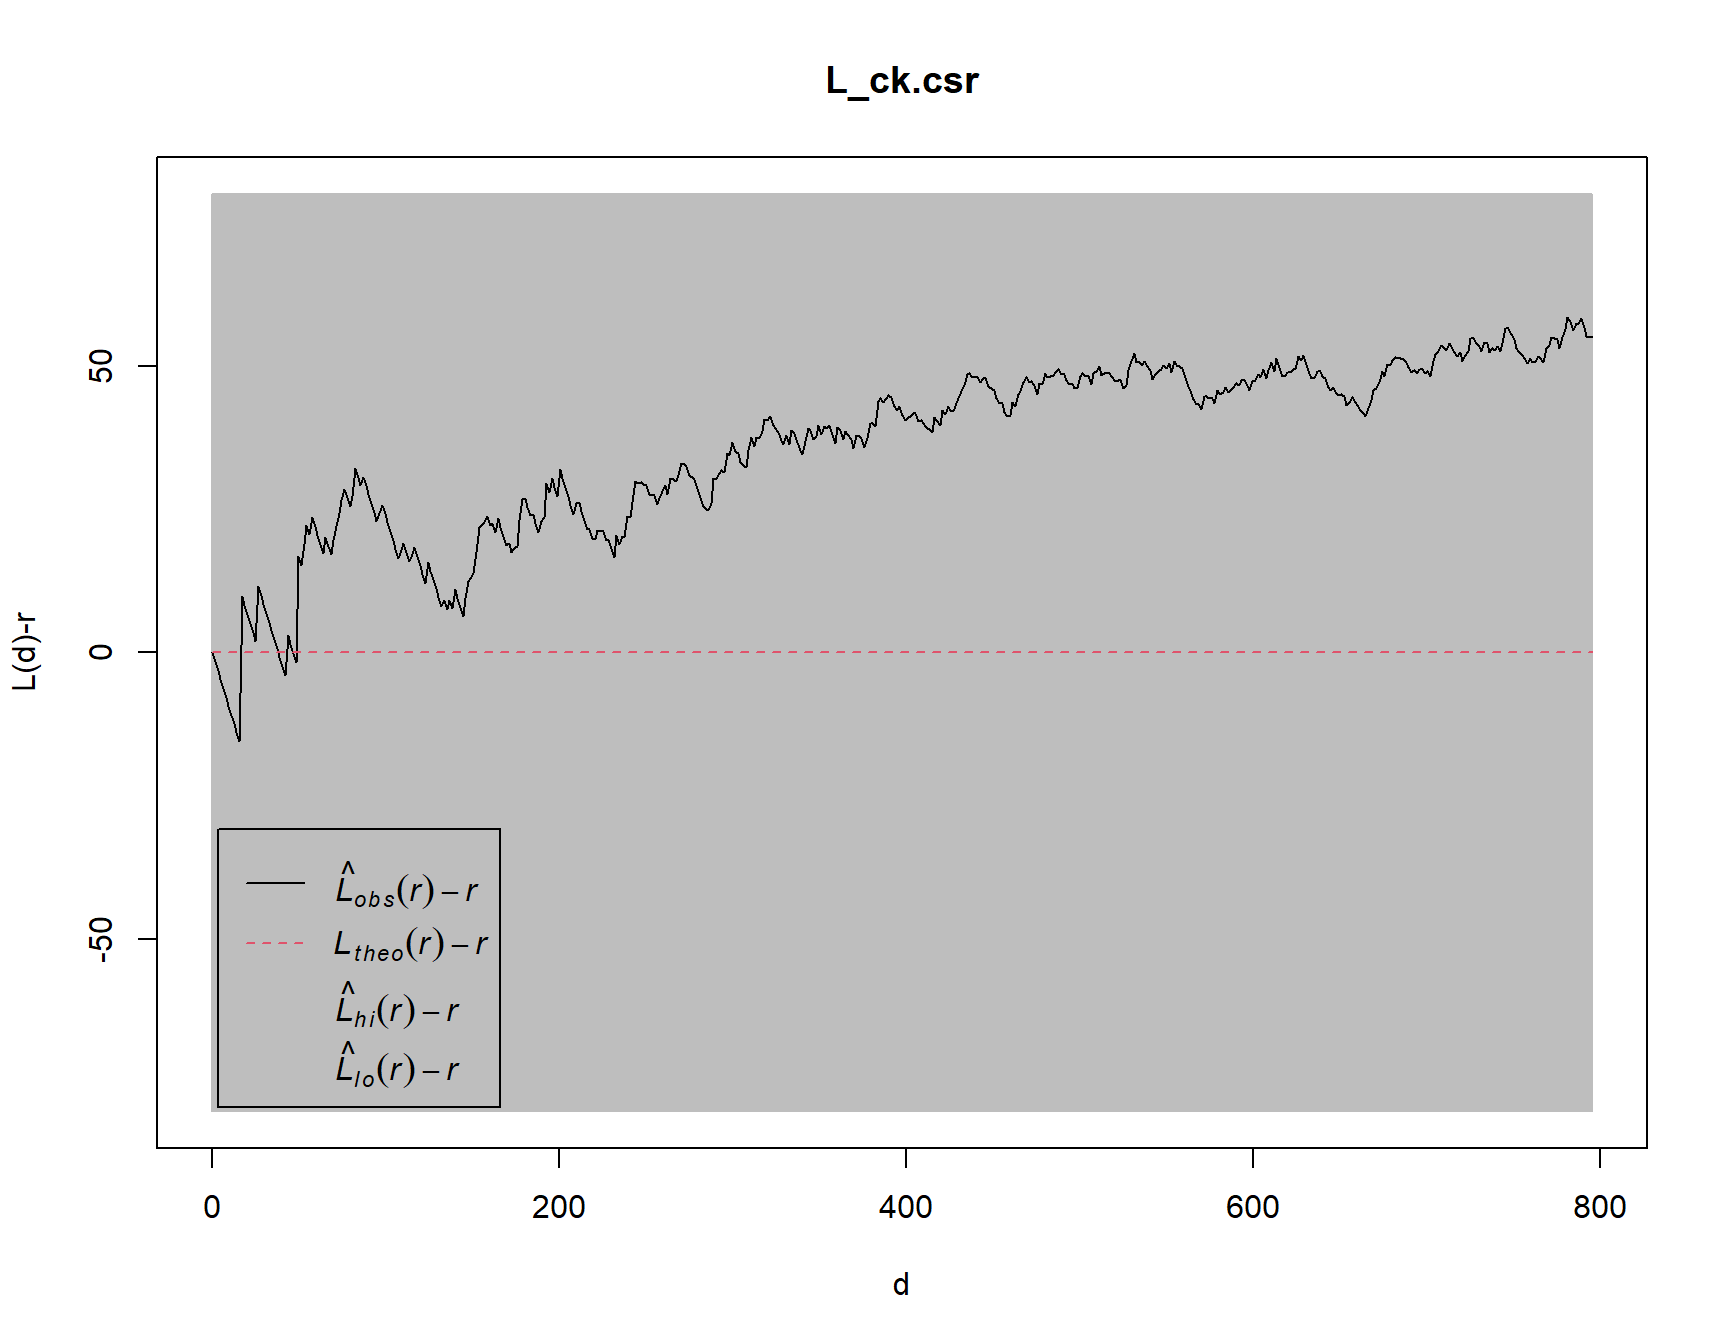
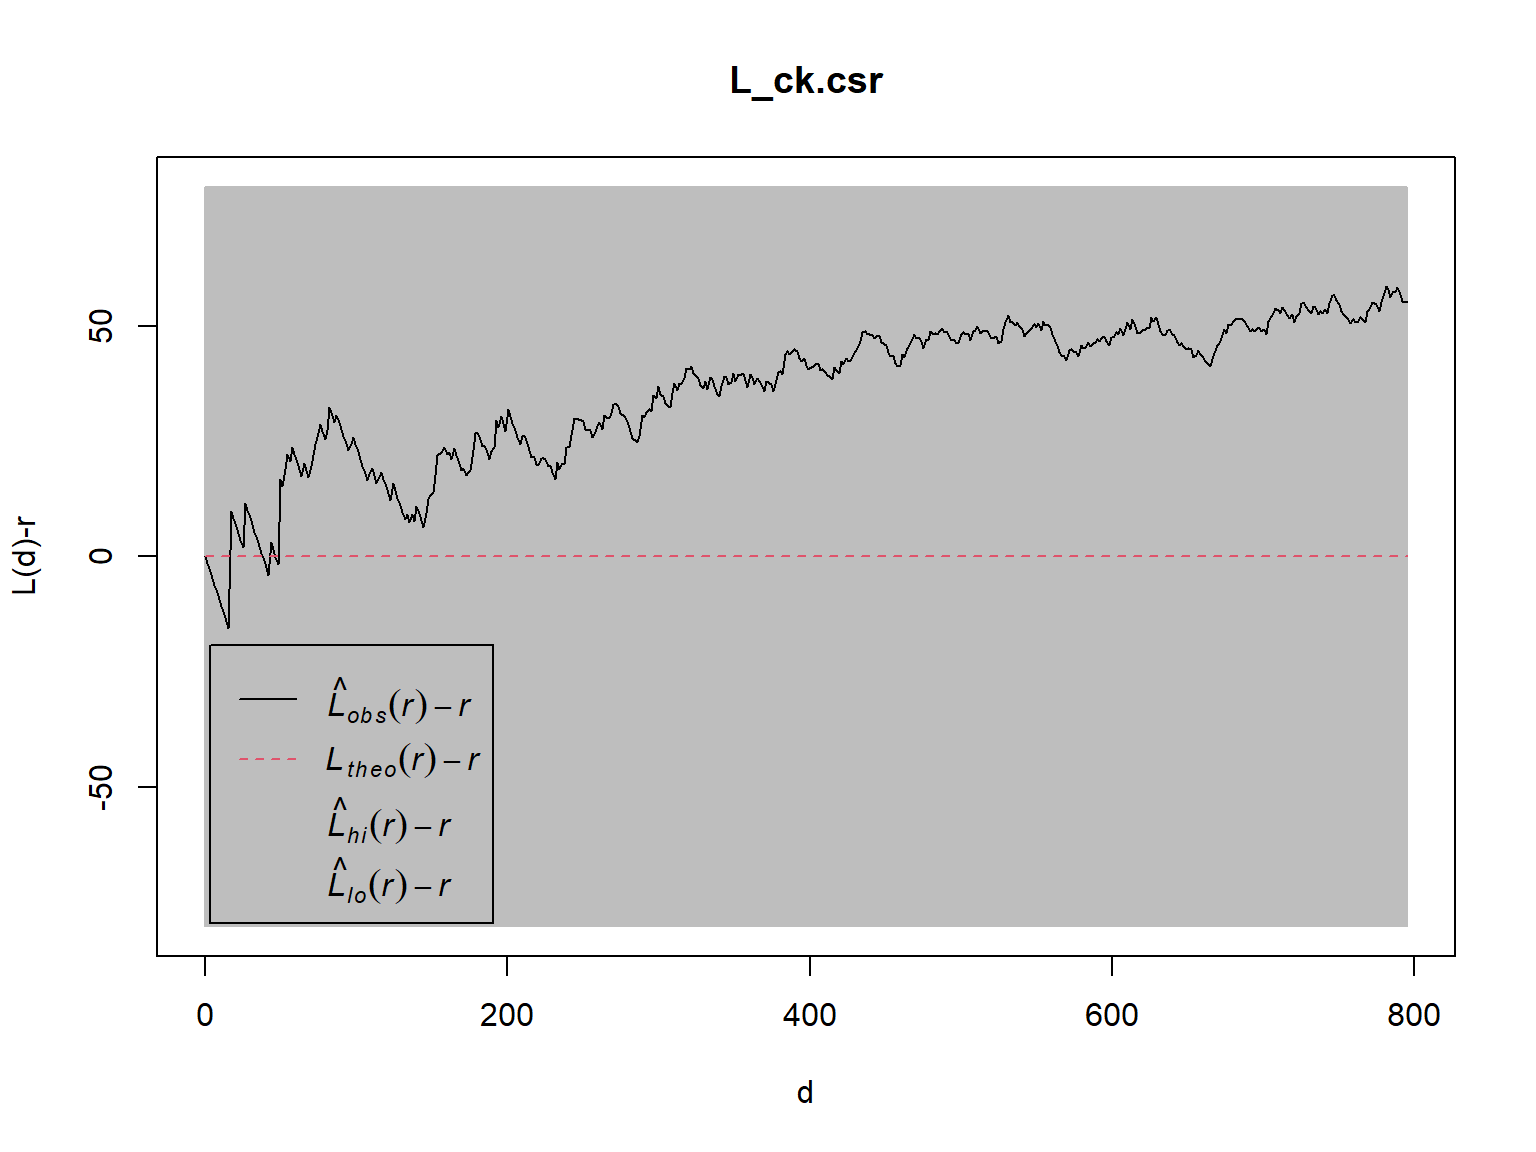
Commit after correcting the parameter names in envelope() calls for Hands-on_Ex2B

diff --git a/_site/Hands-on_Ex/Hands-on_Ex02B/Hands-on_Ex02B.html b/_site/Hands-on_Ex/Hands-on_Ex02B/Hands-on_Ex02B.html
@@ -281,7 +281,7 @@ pre > code.sourceCode > span > a:first-child::before { text-decoration: underlin
     <div>
     <div class="quarto-title-meta-heading">Modified</div>
     <div class="quarto-title-meta-contents">
-      <p class="date-modified">September 5, 2026</p>
+      <p class="date-modified">September 6, 2026</p>
     </div>
   </div>
     
@@ -653,8 +653,8 @@ Done.</code></pre>
 <h4 class="anchored" data-anchor-id="performing-complete-spatial-randomness-test-2">7.1.2 Performing Complete Spatial Randomness Test</h4>
 <p>To confirm the observed spatial pattern above, a hypothesis test is conducted:</p>
 <ul>
-<li>H0: The distribution of childcare services at Choa Chu Kang are randomly distributed.</li>
-<li>H1: The distribution of childcare services at Choa Chu Kang are not randomly distributed.</li>
+<li>H0: The distribution of childcare services at Choa Chu Kang is randomly distributed.</li>
+<li>H1: The distribution of childcare services at Choa Chu Kang is not randomly distributed.</li>
 </ul>
 <p>The null hypothesis will be rejected if p-value is smaller than alpha value of 0.001.</p>
 <p>Monte Carlo test with F-function:</p>
@@ -702,7 +702,7 @@ Done.</code></pre>
 </div>
 </div>
 <div class="callout-body-container callout-body">
-<p>The observed F-function (black line) stays within the simulation envelope (grey band) across the entire observed distance range, never crossing either the upper or lower bound. This indicates that the spatial pattern of childcare centres in Choa Chu Kang is not distinguishable from CSR at these distances — unlike the G-function result, which did show the observed line exceeding the envelope at larger distances.</p>
+<p>The observed F-function (black line) stays within the envelope (grey band) across the entire observed distance range, never crossing either the upper or lower bound. This indicates that the spatial pattern of childcare centres in Choa Chu Kang is not distinguishable from CSR at these distances, consistent with the G-function result.</p>
 </div>
 </div>
 </section>
@@ -741,8 +741,8 @@ Done.</code></pre>
 <h4 class="anchored" data-anchor-id="performing-complete-spatial-randomness-test-3">7.2.2 Performing Complete Spatial Randomness Test</h4>
 <p>To confirm the observed spatial pattern above, a hypothesis test is conducted:</p>
 <ul>
-<li>H0: The distribution of childcare services at Tampines are randomly distributed.</li>
-<li>H1: The distribution of childcare services at Tampines are not randomly distributed.</li>
+<li>H0: The distribution of childcare services at Tampines is randomly distributed.</li>
+<li>H1: The distribution of childcare services at Tampines is not randomly distributed.</li>
 </ul>
 <p>The null hypothesis will be rejected if p-value is smaller than alpha value of 0.001.</p>
 <p>Monte Carlo test with F-function:</p>
@@ -826,7 +826,7 @@ Done.</code></pre>
 </div>
 </div>
 <div class="callout-body-container callout-body">
-<p>The observed K-function (black line) sits consistently above the theoretical CSR line (red dashed) across the entire observed distance range, with the gap widening as distance increases. Since a higher-than-expected K-function indicates clustering, this confirms that childcare centres in Choa Chu Kang are more clustered than CSR would predict, which is consistent with the earlier G-function result.</p>
+<p>The observed K-function (black line) sits consistently above the theoretical CSR line (red dashed) across the entire observed distance range, with the gap widening as distance increases. Since a higher-than-expected K-function indicates clustering, this confirms that childcare centres in Choa Chu Kang are more clustered than CSR would predict.</p>
 </div>
 </div>
 </section>
@@ -834,8 +834,8 @@ Done.</code></pre>
 <h4 class="anchored" data-anchor-id="performing-complete-spatial-randomness-test-4">8.1.2 Performing Complete Spatial Randomness Test</h4>
 <p>To confirm the observed spatial pattern above, a hypothesis test is conducted:</p>
 <ul>
-<li>H0: The distribution of childcare services at Choa Chu Kang are randomly distributed.</li>
-<li>H1: The distribution of childcare services at Choa Chu Kang are not randomly distributed.</li>
+<li>H0: The distribution of childcare services at Choa Chu Kang is randomly distributed.</li>
+<li>H1: The distribution of childcare services at Choa Chu Kang is not randomly distributed.</li>
 </ul>
 <p>The null hypothesis will be rejected if the p-value is smaller than the alpha value of 0.001.</p>
 <div class="cell">
@@ -872,7 +872,7 @@ Done.</code></pre>
 </div>
 </div>
 <div class="callout-body-container callout-body">
-<p>The observed K-function (black line) stays close to the upper edge of the simulation envelope (grey band) for much of the observed distance range, briefly exceeding it near the largest distances. This suggests a degree of clustering among childcare centres in Choa Chu Kang.</p>
+<p>The observed K-function (black line) stays within the envelope (grey band) for most of the observed distance range, but rises above the upper bound at larger distances, roughly from d = 700 onward. This suggests a degree of clustering among childcare centres in Choa Chu Kang at these greater distances.</p>
 </div>
 </div>
 </section>
@@ -913,8 +913,8 @@ Done.</code></pre>
 <h4 class="anchored" data-anchor-id="performing-complete-spatial-randomness-test-5">8.2.2 Performing Complete Spatial Randomness Test</h4>
 <p>To confirm the observed spatial pattern above, a hypothesis test is conducted:</p>
 <ul>
-<li>H0: The distribution of childcare services at Tampines are randomly distributed.</li>
-<li>H1:The distribution of childcare services at Tampines are not randomly distributed.</li>
+<li>H0: The distribution of childcare services at Tampines is randomly distributed.</li>
+<li>H1: The distribution of childcare services at Tampines is not randomly distributed.</li>
 </ul>
 <p>The null hypothesis will be rejected if the p-value is smaller than the alpha value of 0.001.</p>
 <div class="cell">
@@ -952,7 +952,7 @@ Done.</code></pre>
 </div>
 </div>
 <div class="callout-body-container callout-body">
-<p>The observed K-function (black line) rises above the upper envelope bound, and is outside the envelope for the entire distance range. This indicates that childcare centres in Tampines are consistently more clustered than 99 simulations of CSR would produce.</p>
+<p>The observed K-function (black line) rises steadily above the theoretical CSR line (red dashed) throughout the observed distance range, but stays within the envelope (grey band) the entire time, never crossing the upper bound. While the black line is consistently above the red CSR line, that gap is not large enough to rule out random chance — 99 simulations of Complete Spatial Randomness could plausibly produce this much variation on their own. This test therefore does not confirm a statistically significant departure from CSR for Tampines.</p>
 </div>
 </div>
 </section>
@@ -989,7 +989,8 @@ Done.</code></pre>
 </div>
 </div>
 <div class="callout-body-container callout-body">
-<p>The observed L-function (black line) dips briefly below the theoretical CSR line (red dashed, flat at zero) at very short distances, before rising consistently above it for the remainder of the observed range, reaching around 50–60 when d = 700–800. This confirms the clustering pattern already identified for Choa Chu Kang via the G-, F-, and K-function results, with the brief early dip likely reflecting local variation at very short distances where few point pairs are available to estimate the function reliably.</p>
+<p>The observed L-function (black line) dips briefly below the theoretical CSR line (red dashed, flat at zero) at very short distances, before rising consistently above it for the remainder of the observed range, reaching around 50–60 when d = 700–800.</p>
+<p>This matches the pattern seen in the G-, F-, and K-function plots for Choa Chu Kang shown earlier, all of which compared the observed pattern directly against the theoretical CSR line and showed clear separation from it, though the Monte Carlo simulation tests for these functions have generally not confirmed this separation as statistically significant. The brief early dip likely reflects local variation at very short distances, where few point pairs are available to estimate the function reliably.</p>
 </div>
 </div>
 </section>
@@ -997,8 +998,8 @@ Done.</code></pre>
 <h4 class="anchored" data-anchor-id="performing-complete-spatial-randomness-test-6">9.1.2 Performing Complete Spatial Randomness Test</h4>
 <p>To confirm the observed spatial pattern above, a hypothesis test is conducted:</p>
 <ul>
-<li>H0: The distribution of childcare services at Choa Chu Kang are randomly distributed.</li>
-<li>H1: The distribution of childcare services at Choa Chu Kang are not randomly distributed.</li>
+<li>H0: The distribution of childcare services at Choa Chu Kang is randomly distributed.</li>
+<li>H1: The distribution of childcare services at Choa Chu Kang is not randomly distributed.</li>
 </ul>
 <p>The null hypothesis will be rejected if the p-value is smaller than the alpha value of 0.001.</p>
 <div class="cell">
@@ -1020,7 +1021,7 @@ Done.</code></pre>
 <div class="cell-output-display">
 <div>
 <figure class="figure">
-<p><img src="Hands-on_Ex02B_files/figure-html/unnamed-chunk-25-1.png" class="img-fluid figure-img" width="864"></p>
+<p><img src="Hands-on_Ex02B_files/figure-html/unnamed-chunk-25-1.png" class="img-fluid figure-img" width="768"></p>
 </figure>
 </div>
 </div>
@@ -1035,7 +1036,8 @@ Done.</code></pre>
 </div>
 </div>
 <div class="callout-body-container callout-body">
-<p>The observed L-function (black line) stays within the simulation envelope (grey band) for most of the distance range. This suggests a degree of clustering among childcare centres in Choa Chu Kang, though the departure from Complete Spatial Randomness is not as pronounced as the pattern seen in the G- and F-function results.</p>
+<p>The observed L-function (black line) remains within the envelope (grey band) across the entire distance range. This test does not show a significant departure from CSR for Choa Chu Kang.</p>
+<p>Note that the envelope appears unusually wide here. This happens because a <strong>global</strong> rank envelope test (<code>global = TRUE</code>) applies a single constant margin across the whole distance range, calibrated to the largest deviation typically seen at greater distances, making the band wider overall than a pointwise test would produce.</p>
 </div>
 </div>
 </section>
@@ -1068,7 +1070,8 @@ Done.</code></pre>
 </div>
 </div>
 <div class="callout-body-container callout-body">
-<p>The observed L-function (black line) rises above the theoretical CSR line (pink dashed, flat at zero) almost immediately and climbs steadily throughout the observed range. This confirms the strong clustering pattern already identified for Tampines via the G-, F-, and K-function results.</p>
+<p>The observed L-function (black line) increases steadily above the theoretical CSR line (red dashed, flat at zero), separating from it at very short distances.</p>
+<p>This matches the pattern seen in the G- and F-function plots for Tampines shown earlier, both of which compared the observed pattern directly against the theoretical CSR line and were later confirmed by their respective Monte Carlo simulation tests. The K-function’s simulation test, by contrast, did not confirm a significant departure for Tampines, despite showing a similar separation when compared directly against the theoretical line.</p>
 </div>
 </div>
 </section>
@@ -1076,8 +1079,8 @@ Done.</code></pre>
 <h4 class="anchored" data-anchor-id="performing-complete-spatial-randomness-test-7">9.2.2 Performing Complete Spatial Randomness Test</h4>
 <p>To confirm the observed spatial pattern above, a hypothesis test is conducted:</p>
 <ul>
-<li>H0: The distribution of childcare services at Tampines are randomly distributed.</li>
-<li>H1: The distribution of childcare services at Tampines are not randomly distributed.</li>
+<li>H0: The distribution of childcare services at Tampines is randomly distributed.</li>
+<li>H1: The distribution of childcare services at Tampines is not randomly distributed.</li>
 </ul>
 <p>The null hypothesis will be rejected if the p-value is smaller than the alpha value of 0.001.</p>
 <div class="cell">
